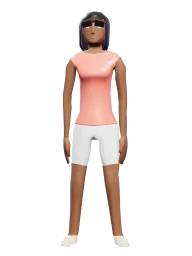
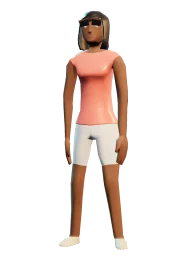
t426: heróis com armadura tática de cinema (placas, mangas, capacetes), nomes/cores sem semelhança com personagens de terceiros, miniaturas com luz cinematográfica

Changed region(s): [[0.3125, 0.0312, 0.6875, 1.0]]

diff --git a/src/heroes.js b/src/heroes.js
@@ -23,36 +23,75 @@ export function attach(model, bone, obj, off, k, rot) {
 const grp = (...m) => { const g = new THREE.Group(); for (const x of m) g.add(x); return g; };
 const mesh = (geo, mat, x = 0, y = 0, z = 0, rx = 0, ry = 0, rz = 0) => { const o = new THREE.Mesh(geo, mat); o.position.set(x, y, z); o.rotation.set(rx, ry, rz); return o; };
 
+// t426: armadura tática de cinema (placas, ombreiras em camadas, braçadeiras, caneleiras, cinto com bolsos) — desenho próprio
+export function limbTube(model, k, bone, next, r0, r1, m, extra = 0, up = 0) {
+  model.updateMatrixWorld(true); const a = model.getObjectByName(bone), b = model.getObjectByName(next); if (!a || !b) return null;
+  const pa = new THREE.Vector3().setFromMatrixPosition(a.matrixWorld), pb = new THREE.Vector3().setFromMatrixPosition(b.matrixWorld);
+  const L = pa.distanceTo(pb) / (k || 1) * (1 + extra) + up; const dir = pb.clone().sub(pa).normalize().applyQuaternion(model.getWorldQuaternion(new THREE.Quaternion()).invert());
+  const g = new THREE.CylinderGeometry(r0, r1, L, 12, 1, true); g.translate(0, -L / 2 + up, 0);
+  const o = new THREE.Mesh(g, m); o.quaternion.setFromUnitVectors(new THREE.Vector3(0, -1, 0), dir); return attach(model, bone, o, [0, 0, 0], k);
+}
+export function tacArmor(model, k, o) {
+  // mangas do macacão (cobrem o braço inteiro)
+  const suit = M(o.suit ?? 0x22262c, { metalness: 0.35, roughness: 0.55, side: THREE.DoubleSide });
+  for (const s of ['L', 'R']) { limbTube(model, k, 'UpperArm' + s, 'LowerArm' + s, 0.075, 0.064, suit, 0.1, 0.03); limbTube(model, k, 'LowerArm' + s, 'Palm' + s, 0.064, 0.05, suit, 0.0, 0.03);
+    limbTube(model, k, 'UpperLeg' + s, 'LowerLeg' + s, 0.092, 0.07, suit, 0.1, 0.02); limbTube(model, k, 'LowerLeg' + s, 'Foot' + s, 0.072, 0.062, suit, 0.0, 0.05); }
+  const plate = M(o.plate, { metalness: o.pm ?? 0.75, roughness: o.pr ?? 0.32 }), trim = M(o.trim, { metalness: 0.85, roughness: 0.28 }), dark = M(0x16191e, { metalness: 0.4, roughness: 0.6 }), gl = GLOW(o.glow, 1.8);
+  // peitoral em duas metades com vinco central e núcleo de luz
+  for (const s of [-1, 1]) attach(model, 'Torso', grp(mesh(box(0.15, 0.17, 0.035), plate, 0, 0, 0, -0.12, s * 0.22, 0), mesh(box(0.15, 0.012, 0.04), trim, 0, -0.085, 0.004, -0.12, s * 0.22, 0)), [s * 0.072, 0.17, 0.125], k);
+  if (o.core !== false) attach(model, 'Torso', mesh(new THREE.CylinderGeometry(0.026, 0.026, 0.02, 6), gl, 0, 0, 0, Math.PI / 2), [0, 0.17, 0.155], k);
+  // abdômen segmentado
+  for (let i = 0; i < 3; i++) attach(model, 'Torso', mesh(box(0.16 - i * 0.012, 0.042, 0.03), i % 2 ? dark : plate), [0, 0.04 - i * 0.05, 0.13], k);
+  // gola alta
+  attach(model, 'Torso', mesh(new THREE.CylinderGeometry(0.075, 0.095, 0.06, 12, 1, true), dark), [0, 0.33, 0], k);
+  // ombreiras em camadas
+  for (const s of [1, -1]) { const sh = grp(mesh(new THREE.SphereGeometry(0.105, 12, 8, 0, Math.PI * 2, 0, Math.PI * 0.45), plate), mesh(new THREE.SphereGeometry(0.09, 12, 6, 0, Math.PI * 2, Math.PI * 0.42, Math.PI * 0.1), trim, 0, -0.015, 0), mesh(box(0.012, 0.012, 0.12), gl, s * 0.05, 0.05, 0));
+    attach(model, s > 0 ? 'UpperArmL' : 'UpperArmR', sh, [s * 0.02, 0.035, 0], k); }
+  // braçadeiras e joelheiras/caneleiras
+  for (const s of ['L', 'R']) {
+    attach(model, 'LowerArm' + s, grp(mesh(new THREE.CylinderGeometry(0.055, 0.05, 0.16, 8), plate), mesh(box(0.02, 0.12, 0.012), gl, 0, 0, 0.052)), [0, -0.13, 0], k);
+    attach(model, 'UpperLeg' + s, mesh(box(0.11, 0.17, 0.03), plate, 0, 0, 0, 0.05), [0, -0.2, 0.075], k);
+    attach(model, 'LowerLeg' + s, grp(mesh(box(0.1, 0.24, 0.03), plate), mesh(new THREE.SphereGeometry(0.05, 8, 6), trim, 0, 0.15, 0.0), mesh(box(0.012, 0.16, 0.012), gl, 0, -0.01, 0.018)), [0, -0.15, 0.07], k);
+  }
+  // cinto tático com bolsos
+  attach(model, 'Hips', mesh(new THREE.TorusGeometry(0.168, 0.02, 6, 22), dark, 0, 0, 0, Math.PI / 2), [0, 0.09, 0], k);
+  for (const a of [-0.9, -0.35, 0.35, 0.9]) attach(model, 'Hips', mesh(box(0.06, 0.06, 0.035), dark, 0, 0, 0, 0, a), [Math.sin(a) * 0.17, 0.08, Math.cos(a) * 0.16], k);
+  attach(model, 'Hips', mesh(box(0.07, 0.045, 0.02), trim), [0, 0.09, 0.172], k);
+}
+// capacete tático com viseira (formato próprio)
+function helmet(model, k, shell, visor, open) {
+  const g = grp(mesh(new THREE.SphereGeometry(0.155, 16, 12, 0, Math.PI * 2, 0, open ? Math.PI * 0.5 : Math.PI * 0.62), shell), mesh(box(0.2, open ? 0.02 : 0.035, 0.04), visor, 0, open ? 0.06 : 0.0, open ? 0.13 : 0.125));
+  if (!open) g.add(mesh(box(0.11, 0.06, 0.05), shell, 0, -0.07, 0.12));
+  return attach(model, 'Head', g, [0, 0.11, 0.005], k);
+}
+
 export const HEROES = {
   teia: {
-    id: 'teia', label: 'Teia Neon', name: 'Ágil e escaladora', base: 'ela', height: 1.7, power: 'teia', emoji: '🕸',
-    powerTxt: 'escala paredes e se balança entre os prédios',
-    colors: { Shirt: 0x0fbfb0, Pants: 0x10141c, Shoes: 0x0fbfb0, Hair: 0x10141c, HairBase: 0x10141c, Skin: 0x10141c },
-    fallback: { skin: 0x10141c, shirt: 0x0fbfb0, pants: 0x10141c, hair: 0x10141c, stripe: 0x9cff3a },
+    id: 'teia', label: 'Vértice', name: 'Ágil e escaladora', base: 'ela', height: 1.72, power: 'teia', emoji: '🪝',
+    powerTxt: 'escala paredes e se balança entre os prédios com um gancho de cabo',
+    colors: { Shirt: 0x1d3f45, Pants: 0x15181d, Shoes: 0x22272e, Hair: 0x15181d, HairBase: 0x15181d, Skin: 0x15181d },
+    fallback: { skin: 0x15181d, shirt: 0x1d3f45, pants: 0x15181d, hair: 0x15181d, stripe: 0x4ff7e0 },
     gear(model, k) {
-      const lens = GLOW(0xd8fff8, 1.6), lime = GLOW(0x9cff3a, 1.4);
-      // olhos grandes em gota (formato próprio), faixas em zigue-zague no peito e lançadores de fio nos pulsos
-      const eye = (s) => mesh(box(0.07, 0.018, 0.012), lens, s * 0.045, 0, 0, 0, s * 0.3, s * -0.28);
-      attach(model, 'Head', grp(eye(1), eye(-1)), [0, 0.12, 0.13], k);
-      const zz = grp(mesh(box(0.17, 0.02, 0.01), lime, 0.06, 0, 0, 0, 0, -0.6), mesh(box(0.17, 0.02, 0.01), lime, -0.06, 0, 0, 0, 0, 0.6), mesh(box(0.13, 0.02, 0.01), lime, 0.05, -0.08, 0, 0, 0, -0.6), mesh(box(0.13, 0.02, 0.01), lime, -0.05, -0.08, 0, 0, 0, 0.6));
-      attach(model, 'Torso', zz, [0, 0.12, 0.14], k);
+      helmet(model, k, M(0x1c2127, { metalness: 0.7, roughness: 0.3 }), GLOW(0x4ff7e0, 1.8));
+      tacArmor(model, k, { plate: 0x2a3038, trim: 0x4b5560, glow: 0x4ff7e0 });
+      // lançadores de cabo nos pulsos
       for (const s of ['L', 'R']) attach(model, 'Palm' + s, mesh(new THREE.CylinderGeometry(0.035, 0.035, 0.08, 8), M(0x0b0e14, { metalness: 0.6 })), [0, 0.07, 0], k);
     },
   },
   solar: {
     id: 'solar', label: 'Armadura Solar', name: 'Voa e paira', base: 'ele', height: 1.86, power: 'voo', emoji: '☀',
     powerTxt: 'voa e paira no céu de Solara',
-    colors: { Shirt: 0xe9c25a, Pants: 0xf4f1ea, Socks: 0xe9c25a, Hair: 0xe9c25a, Eyes: 0xe9c25a, Skin: 0xf4f1ea },
-    metal: { Shirt: 0.75, Pants: 0.35, Socks: 0.75, Hair: 0.75, Skin: 0.35, Eyes: 0.75 },
-    fallback: { skin: 0xf4f1ea, shirt: 0xe9c25a, pants: 0xf4f1ea, hair: 0xe9c25a, stripe: 0xffffff },
+    colors: { Shirt: 0x2b2e33, Pants: 0x24272c, Socks: 0x2b2e33, Hair: 0x2b2e33, Eyes: 0x2b2e33, Skin: 0x24272c },
+    metal: { Shirt: 0.7, Pants: 0.55, Socks: 0.7, Hair: 0.7, Skin: 0.55, Eyes: 0.7 },
+    fallback: { skin: 0x24272c, shirt: 0x2b2e33, pants: 0x24272c, hair: 0x2b2e33, stripe: 0xd9b45a },
     gear(model, k) {
-      const gold = M(0xe9c25a, { metalness: 0.8, roughness: 0.3 }), white = M(0xf7f5ef, { metalness: 0.3, roughness: 0.3 }), sun = GLOW(0xfff1b8, 2.4);
-      attach(model, 'Head', grp(mesh(new THREE.SphereGeometry(0.135, 14, 10), gold), mesh(box(0.17, 0.026, 0.03), GLOW(0x9fdcff, 2), 0, 0.01, 0.12)), [0, 0.1, 0.035], k);
+      const sun = GLOW(0xfff1b8, 2.4);
+      helmet(model, k, M(0xc9a24e, { metalness: 0.85, roughness: 0.28 }), GLOW(0x9fdcff, 2));
+      tacArmor(model, k, { plate: 0xc9a24e, trim: 0x2b2e33, glow: 0xffd27a, pm: 0.88, pr: 0.26, core: false });
       // emblema solar: hexágono com raios (desenho próprio)
-      const em = grp(mesh(new THREE.CylinderGeometry(0.05, 0.05, 0.02, 6), sun, 0, 0, 0, Math.PI / 2));
-      for (let i = 0; i < 6; i++) { const a = i / 6 * Math.PI * 2 + Math.PI / 6; em.add(mesh(box(0.012, 0.05, 0.012), sun, Math.cos(a) * 0.085, Math.sin(a) * 0.085, 0, 0, 0, a - Math.PI / 2)); }
-      attach(model, 'Torso', em, [0, 0.2, 0.15], k);
-      for (const s of [1, -1]) attach(model, s > 0 ? 'UpperArmL' : 'UpperArmR', mesh(new THREE.SphereGeometry(0.1, 10, 8, 0, Math.PI * 2, 0, Math.PI / 2), white), [s * 0.02, 0.03, 0], k);
+      const em = grp(mesh(new THREE.CylinderGeometry(0.04, 0.04, 0.02, 6), sun, 0, 0, 0, Math.PI / 2));
+      for (let i = 0; i < 6; i++) { const a = i / 6 * Math.PI * 2 + Math.PI / 6; em.add(mesh(box(0.01, 0.035, 0.01), sun, Math.cos(a) * 0.065, Math.sin(a) * 0.065, 0, 0, 0, a - Math.PI / 2)); }
+      attach(model, 'Torso', em, [0, 0.17, 0.16], k);
       const flame = new THREE.MeshBasicMaterial({ color: 0xffd27a, transparent: true, opacity: 0.85, blending: THREE.AdditiveBlending, depthWrite: false, toneMapped: false });
       const jets = [];
       for (const s of ['L', 'R']) { const j = mesh(new THREE.ConeGeometry(0.07, 0.45, 8), flame, 0, -0.25, 0, Math.PI); j.visible = false; jets.push(j); attach(model, 'Foot' + s, j, [0, -0.05, 0.03], k); }
@@ -61,62 +100,55 @@ export const HEROES = {
     },
   },
   colosso: {
-    id: 'colosso', label: 'Colosso Verde', name: 'Gigante gentil', base: 'ele', height: 2.3, bulk: 1.28, power: 'forca', emoji: '💪',
+    id: 'colosso', label: 'Colosso', name: 'Gigante gentil', base: 'ele', height: 2.3, bulk: 1.28, power: 'forca', emoji: '💪',
     powerTxt: 'super pulo e levanta carros (com cuidado, sem estragar nada)',
-    colors: { Shirt: 0x5aa83c, Pants: 0x34465c, Socks: 0x5aa83c, Hair: 0x14110e, Eyes: 0x1a1a1a, Skin: 0x5aa83c },
-    fallback: { skin: 0x5aa83c, shirt: 0x5aa83c, pants: 0x34465c, hair: 0x14110e, stripe: 0x34465c },
+    colors: { Shirt: 0x2c3138, Pants: 0x23272d, Socks: 0x2c3138, Hair: 0x14110e, Eyes: 0x1a1a1a, Skin: 0x8d5a3b },
+    fallback: { skin: 0x8d5a3b, shirt: 0x2c3138, pants: 0x23272d, hair: 0x14110e, stripe: 0xb8793a },
     gear(model, k) {
-      const bronze = M(0xb8793a, { metalness: 0.6, roughness: 0.35 });
-      for (const s of ['L', 'R']) attach(model, 'LowerArm' + s, mesh(new THREE.CylinderGeometry(0.075, 0.08, 0.13, 10), bronze), [0, -0.17, 0], k);
-      attach(model, 'Hips', mesh(new THREE.TorusGeometry(0.17, 0.025, 6, 18), M(0x2a2a2a), 0, 0, 0, Math.PI / 2), [0, 0.08, 0], k);
+      tacArmor(model, k, { plate: 0x7a5530, trim: 0x2c3138, glow: 0xffb347, pm: 0.7, pr: 0.38, suit: 0x2c3138 });
+      for (const s of ['L', 'R']) attach(model, 'LowerArm' + s, mesh(new THREE.CylinderGeometry(0.075, 0.08, 0.13, 10), M(0xb8793a, { metalness: 0.6, roughness: 0.35 })), [0, -0.17, 0], k);
     },
   },
   sentinela: {
     id: 'sentinela', label: 'Sentinela', name: 'Escudo e impulso', base: 'ele', height: 1.82, power: 'escudo', emoji: '🛡',
     powerTxt: 'arrancada com escudo que quica nas paredes',
-    colors: { Shirt: 0x2e6f6b, Pants: 0x2a2e35, Socks: 0x2a2e35, Hair: 0x2a1c12, Eyes: 0x1a1a1a, Skin: 0xb07a52 },
-    fallback: { skin: 0xb07a52, shirt: 0x2e6f6b, pants: 0x2a2e35, hair: 0x2a1c12, stripe: 0xf08a24 },
+    colors: { Shirt: 0x1e3a44, Pants: 0x22262c, Socks: 0x22262c, Hair: 0x2a1c12, Eyes: 0x1a1a1a, Skin: 0xb07a52 },
+    fallback: { skin: 0xb07a52, shirt: 0x1e3a44, pants: 0x22262c, hair: 0x2a1c12, stripe: 0xd9b45a },
     gear(model, k) {
-      const orange = M(0xf08a24, { metalness: 0.4, roughness: 0.4 }), steel = M(0x3b4048, { metalness: 0.7, roughness: 0.35 }), teal = GLOW(0x4ff7e0, 1.2), strap = M(0x5a3b22);
-      // capacete aberto com crista
-      attach(model, 'Head', grp(mesh(new THREE.SphereGeometry(0.16, 14, 10, 0, Math.PI * 2, 0, Math.PI * 0.5), orange), mesh(box(0.03, 0.06, 0.26), orange, 0, 0.15, -0.02)), [0, 0.13, -0.005], k);
-      attach(model, 'Torso', grp(mesh(box(0.05, 0.5, 0.02), strap, 0, 0, 0, 0, 0, 0.55), mesh(box(0.05, 0.5, 0.02), strap, 0, 0, 0, 0, 0, -0.55)), [0, 0.12, 0.145], k);
-      // escudo redondo: anéis laranja/aço e um hexágono turquesa no centro (desenho próprio)
-      const sh = grp(mesh(new THREE.CylinderGeometry(0.3, 0.3, 0.03, 28), orange), mesh(new THREE.CylinderGeometry(0.23, 0.23, 0.036, 28), steel), mesh(new THREE.CylinderGeometry(0.15, 0.15, 0.04, 28), orange), mesh(new THREE.CylinderGeometry(0.08, 0.08, 0.045, 6), teal));
-      sh.children.forEach(c => c.rotation.z = Math.PI / 2);
+      const steel = M(0x2f353d, { metalness: 0.75, roughness: 0.32 }), gold = M(0xc9a24e, { metalness: 0.85, roughness: 0.3 }), teal = GLOW(0x4ff7e0, 1.4);
+      helmet(model, k, steel, teal, true);
+      tacArmor(model, k, { plate: 0x2f353d, trim: 0xc9a24e, glow: 0x4ff7e0, suit: 0x1e3a44 });
+      // escudo hexagonal de aço com aro dourado e anel turquesa (desenho próprio)
+      const sh = grp(mesh(new THREE.CylinderGeometry(0.3, 0.3, 0.03, 6), gold), mesh(new THREE.CylinderGeometry(0.27, 0.27, 0.036, 6), steel), mesh(new THREE.TorusGeometry(0.15, 0.012, 6, 6), teal, 0, 0.02, 0, Math.PI / 2), mesh(new THREE.CylinderGeometry(0.05, 0.05, 0.045, 6), teal));
+      sh.children.forEach(c => { if (c.geometry.type === 'TorusGeometry') { c.rotation.set(0, Math.PI / 2, 0); c.position.set(0.02, 0, 0); } else c.rotation.z = Math.PI / 2; });
       model.userData.shield = attach(model, 'LowerArmL', sh, [0.09, -0.12, 0.02], k);
     },
   },
   ferreo: {
-    id: 'ferreo', label: 'Lorde Férreo', name: 'Vilão que levita', base: 'ele', height: 1.88, power: 'levitar', emoji: '🧙',
-    powerTxt: 'levita e flutua devagar (vilão de pose, mas gente boa)',
-    colors: { Shirt: 0x5b6650, Pants: 0x3d4145, Socks: 0x3d4145, Hair: 0x5b6650, Eyes: 0x2c3030, Skin: 0x9ea6ad },
-    metal: { Skin: 0.8 },
-    fallback: { skin: 0x9ea6ad, shirt: 0x5b6650, pants: 0x3d4145, hair: 0x5b6650, stripe: 0x9ea6ad },
+    id: 'ferreo', label: 'Férreo', name: 'Levita com estilo', base: 'ele', height: 1.88, power: 'levitar', emoji: '🌀',
+    powerTxt: 'levita e flutua devagar (pose séria, mas gente boa)',
+    colors: { Shirt: 0x30343a, Pants: 0x26292e, Socks: 0x26292e, Hair: 0x2c2c2c, Eyes: 0x1a1a1a, Skin: 0xb98a66 },
+    fallback: { skin: 0xb98a66, shirt: 0x30343a, pants: 0x26292e, hair: 0x2c2c2c, stripe: 0x9ea6ad },
     gear(model, k) {
-      const cloth = M(0x45503f, { roughness: 0.85, side: THREE.DoubleSide }), steel = M(0x9ea6ad, { metalness: 0.85, roughness: 0.3 });
-      attach(model, 'Head', mesh(new THREE.SphereGeometry(0.175, 14, 10, Math.PI * 0.62, Math.PI * 1.76, 0, Math.PI * 0.68), cloth), [0, 0.11, -0.01], k);
-      attach(model, 'Head', mesh(box(0.15, 0.02, 0.02), GLOW(0x7dff9a, 1.8), 0, 0, 0), [0, 0.12, 0.14], k);
+      const cloth = M(0x24272b, { roughness: 0.85, side: THREE.DoubleSide });
+      helmet(model, k, M(0x8f979f, { metalness: 0.85, roughness: 0.3 }), GLOW(0xffc46b, 1.8));
+      tacArmor(model, k, { plate: 0x8f979f, trim: 0x30343a, glow: 0xffc46b, pm: 0.85 });
       const capeGeo = new THREE.PlaneGeometry(0.52, 1.15, 4, 6); capeGeo.translate(0, -0.6, 0);
       const pos = capeGeo.attributes.position; for (let i = 0; i < pos.count; i++) { const x = pos.getX(i), y = pos.getY(i); pos.setZ(i, x * x * 2.2 + y * 0.1); pos.setX(i, x * (1 - y * 0.3)); } capeGeo.computeVertexNormals();
-      const capeM = mesh(capeGeo, cloth); attach(model, 'Torso', grp(capeM), [0, 0.3, -0.15], k); model.userData.cape = capeM;
-      for (const s of [1, -1]) attach(model, s > 0 ? 'UpperArmL' : 'UpperArmR', mesh(new THREE.SphereGeometry(0.1, 10, 8, 0, Math.PI * 2, 0, Math.PI / 2), steel), [s * 0.02, 0.03, 0], k);
-      attach(model, 'Hips', mesh(new THREE.TorusGeometry(0.16, 0.02, 6, 18), steel, 0, 0, 0, Math.PI / 2), [0, 0.1, 0], k);
+      const capeM = mesh(capeGeo, cloth); attach(model, 'Torso', grp(capeM), [0, 0.3, -0.17], k); model.userData.cape = capeM;
     },
   },
   tita: {
-    id: 'tita', label: 'Titã Violeta', name: 'Pisão de onda', base: 'ele', height: 2.5, bulk: 1.2, power: 'impacto', emoji: '🟣',
+    id: 'tita', label: 'Titã', name: 'Pisão de onda', base: 'ele', height: 2.5, bulk: 1.2, power: 'impacto', emoji: '🌊',
     powerTxt: 'pisão no chão que solta uma onda de luz (só visual)',
-    colors: { Shirt: 0x3b3644, Pants: 0x2a2633, Socks: 0x3b3644, Hair: 0x7b52b8, Eyes: 0x1a1a1a, Skin: 0x7b52b8 },
-    fallback: { skin: 0x7b52b8, shirt: 0x3b3644, pants: 0x2a2633, hair: 0x7b52b8, stripe: 0xd9a441 },
+    colors: { Shirt: 0x2a2d33, Pants: 0x202328, Socks: 0x2a2d33, Hair: 0x1a1410, Eyes: 0x1a1a1a, Skin: 0x6b4a35 },
+    fallback: { skin: 0x6b4a35, shirt: 0x2a2d33, pants: 0x202328, hair: 0x1a1410, stripe: 0xd9a441 },
     gear(model, k) {
-      const gold = M(0xd9a441, { metalness: 0.85, roughness: 0.3 });
-      for (const s of [1, -1]) attach(model, s > 0 ? 'UpperArmL' : 'UpperArmR', mesh(new THREE.SphereGeometry(0.11, 10, 8, 0, Math.PI * 2, 0, Math.PI / 2), gold), [s * 0.02, 0.03, 0], k);
-      attach(model, 'Torso', mesh(box(0.34, 0.06, 0.22), gold), [0, 0.0, 0.02], k);
-      // manopla dourada de desenho próprio: placas facetadas + três cristais em triângulo
-      const g = grp(mesh(new THREE.CylinderGeometry(0.07, 0.06, 0.16, 6), gold), mesh(new THREE.DodecahedronGeometry(0.075, 0), gold, 0, -0.12, 0));
-      [[0x4ff7e0, 0, -0.1], [0xff5fd2, -0.03, -0.15], [0xffc44d, 0.03, -0.15]].forEach(([c, x, y]) => g.add(mesh(new THREE.OctahedronGeometry(0.022, 0), GLOW(c, 2.5), x, y, 0.07)));
-      model.userData.gauntlet = attach(model, 'PalmR', g, [0, 0.05, 0], k);
+      const gold = M(0xb48a3c, { metalness: 0.85, roughness: 0.3 });
+      tacArmor(model, k, { plate: 0x3a3f47, trim: 0xb48a3c, glow: 0x4ff7e0, suit: 0x2a2d33 });
+      // braçadeira de impacto (desenho próprio): placas facetadas e um núcleo turquesa
+      const g = grp(mesh(new THREE.CylinderGeometry(0.07, 0.06, 0.16, 6), gold), mesh(new THREE.CylinderGeometry(0.03, 0.03, 0.02, 6), GLOW(0x4ff7e0, 2.2), 0, -0.02, 0.065, Math.PI / 2));
+      model.userData.gauntlet = attach(model, 'LowerArmR', g, [0, -0.1, 0], k);
     },
   },
 };
@@ -129,7 +161,7 @@ export function heroMaterials(H, mats) {
 }
 
 // ---- "traje nano-metal": roupa tecnológica metálica escura com linhas de luz (estilo próprio de Solara) para todos os personagens jogáveis
-const SUIT_CLOTH = ['Shirt', 'Pants', 'Socks', 'Shoes']; const SUIT_SKIN = new Set(['teia', 'solar', 'ferreo']);
+const SUIT_CLOTH = ['Shirt', 'Pants', 'Socks', 'Shoes']; const SUIT_SKIN = new Set(['teia', 'solar']);
 export const SUIT_GLOW = { ela: 0xff4f8b, ele: 0x19e3ff, teia: 0x9cff3a, solar: 0xffd23f, colosso: 0x7dff6a, sentinela: 0x4fb3ff, ferreo: 0xff6a2a, tita: 0xb36bff };
 export function nanoSuit(A, model, mats, k) {
   const glow = SUIT_GLOW[A.id] ?? 0x29f0ff; const hsl = {};

diff --git a/test/thumbs.js b/test/thumbs.js
@@ -8,7 +8,7 @@ const OUT = process.env.OUT || '/workspace/miami-mundo-aberto/assets/avatars/'; 
   await page.goto('http://localhost:' + PORT + '/?q=low', { waitUntil: 'load' }); await page.waitForFunction('window.MBD_READY === true', { timeout: 120000 });
   const res = await page.evaluate(async () => {
     const THREE = await import('three'); const AV = await import('/src/avatar.js');
-    const W = 384, H = 512; const r = new THREE.WebGLRenderer({ alpha: true, antialias: true, preserveDrawingBuffer: true }); r.setSize(W, H); r.setClearColor(0x000000, 0); r.outputColorSpace = THREE.SRGBColorSpace; r.toneMapping = THREE.ACESFilmicToneMapping; r.toneMappingExposure = 1.15;
+    const W = 384, H = 512; const r = new THREE.WebGLRenderer({ alpha: true, antialias: true, preserveDrawingBuffer: true }); r.setSize(W, H); r.setClearColor(0x000000, 0); r.outputColorSpace = THREE.SRGBColorSpace; r.toneMapping = THREE.ACESFilmicToneMapping; r.toneMappingExposure = 1.05;
     // ambiente simples (céu claro em cima, chão escuro, faixas de luz) para o metal refletir
     const ec = document.createElement('canvas'); ec.width = 256; ec.height = 128; const g = ec.getContext('2d'); const gr = g.createLinearGradient(0, 0, 0, 128); gr.addColorStop(0, '#dfe9ff'); gr.addColorStop(0.48, '#9fb6d8'); gr.addColorStop(0.52, '#3a3f4a'); gr.addColorStop(1, '#16181d'); g.fillStyle = gr; g.fillRect(0, 0, 256, 128);
     g.fillStyle = '#ffffff'; g.fillRect(40, 20, 30, 40); g.fillRect(170, 26, 24, 34); g.fillStyle = '#ff9ad6'; g.fillRect(110, 40, 16, 20);
@@ -17,11 +17,12 @@ const OUT = process.env.OUT || '/workspace/miami-mundo-aberto/assets/avatars/'; 
     const out = {};
     for (const id of AV.AVATAR_IDS) {
       const scene = new THREE.Scene(); scene.environment = envRT.texture;
-      scene.add(new THREE.HemisphereLight(0xffffff, 0x445066, 1.4)); const key = new THREE.DirectionalLight(0xffffff, 2.6); key.position.set(2, 4, 5); scene.add(key); const rim = new THREE.DirectionalLight(0x9fdcff, 2.2); rim.position.set(-3, 3, -4); scene.add(rim);
+      // t426: luz de cinema: chave quente lateral, recorte azul-petróleo forte por trás, preenchimento baixo
+      scene.add(new THREE.HemisphereLight(0x9fb4c8, 0x1a1c20, 0.55)); const key = new THREE.DirectionalLight(0xffd9a8, 3.4); key.position.set(3.2, 3.6, 3.4); scene.add(key); const rim = new THREE.DirectionalLight(0x4ff7e0, 3.6); rim.position.set(-3.5, 2.6, -3.2); scene.add(rim); const rim2 = new THREE.DirectionalLight(0xffc46b, 1.6); rim2.position.set(3.5, 1.5, -3); scene.add(rim2);
       const W8 = await import('/src/wardrobe.js'); const m = await AV.makeModel(id, null, null, false, W8.isHero(id) ? { mode: 'suit', suit: 'classico' } : { mode: 'civil', eq: {} }); scene.add(m.model); const idle = m.acts.Idle; if (idle) { idle.play(); m.mixer.update(0.6); }
       m.model.updateMatrixWorld(true); const box = new THREE.Box3().setFromObject(m.model); const size = box.getSize(new THREE.Vector3()), c = box.getCenter(new THREE.Vector3());
       const cam = new THREE.PerspectiveCamera(24, W / H, 0.1, 100); const hgt = size.y * 1.1; const dist = (hgt / 2) / Math.tan(THREE.MathUtils.degToRad(12));
-      cam.position.set(c.x + dist * 0.12, c.y + size.y * 0.04, c.z + dist); cam.lookAt(c.x, c.y, c.z);
+      cam.position.set(c.x + dist * 0.3, c.y - size.y * 0.06, c.z + dist * 0.95); cam.lookAt(c.x, c.y, c.z);
       r.render(scene, cam);
       const small = document.createElement('canvas'); small.width = 192; small.height = 256; const sg = small.getContext('2d'); sg.imageSmoothingQuality = 'high'; sg.drawImage(r.domElement, 0, 0, 192, 256);
       out[id] = small.toDataURL('image/webp', 0.86);

diff --git a/src/powers.js b/src/powers.js
@@ -15,7 +15,7 @@ export function roofAt(x, z, y) {
 }
 // altura do prédio que contém (x,z), ignorando a altura de quem pergunta
 function boxTop(x, z) { let f = -1e9; for (const b of BOXES) { if (b.boatOnly || b.h > 400) continue; if (x > b.x0 && x < b.x1 && z > b.z0 && z < b.z1 && b.h > f) f = b.h; } return f; }
-// topo do prédio mais próximo à frente (para o fio da Teia Neon)
+// topo do prédio mais próximo à frente (para o cabo da Vértice)
 function anchorAhead(x, z, fx, fz) {
   let best = null, bs = -1e9;
   for (const b of BOXES) {
@@ -104,7 +104,7 @@ export class Powers {
       return true;
     }
     this.airPose = null;
-    // escalada da Teia Neon: andar contra a parede sobe
+    // escalada da Vértice: andar contra a parede sobe
     if (k === 'teia') {
       if (c.wall && c.dl > 0.05 && (c.dx * c.wall.x + c.dz * c.wall.z) < -0.4) { this.climb = true; this.wallN = c.wall; }
       else if (this.climb && !(c.dl > 0.05)) this.climb = false;
@@ -148,7 +148,7 @@ export class Powers {
       v.sync(0);
     }
     for (const v of G.vehicles) if (v.hop > 0) { v.hopT = (v.hopT || 0) + dt * 9; v.hop = Math.max(0, v.hop - dt * 0.6); v.root.position.y = v.y + (v.hop > 0 ? Math.abs(Math.sin(v.hopT)) * v.hop : 0); if (v.hop <= 0) v.hopT = 0; }
-    // capa do Lorde Férreo balança com o movimento
+    // capa do Férreo balança com o movimento
     const R = G.hero.rig; if (R && R.model.userData.cape) { const sp = Math.hypot(p.vx || 0, p.vz || 0); R.model.userData.cape.rotation.x = lerp(R.model.userData.cape.rotation.x, -Math.min(0.9, sp * 0.06) - (this.lev ? 0.25 : 0) + Math.sin(t * 3) * 0.04, Math.min(1, dt * 4)); }
   }
 }

diff --git a/src/signature.js b/src/signature.js
@@ -8,7 +8,7 @@ import * as THREE from 'three';
 export const SIGNATURE = {
   ela: { type: 'sport', name: 'Flecha Rosa', tune: { paint: 0xff4f8b, accent: 0xffffff, glow: 0xff2bd6, rim: 0xffffff, text: 'LUNA', style: 0, spoiler: 1, kit: true } },
   ele: { type: 'moto', name: 'Raio Ciano', tune: { paint: 0x19c3e6, accent: 0x111111, glow: 0x29f0ff, rim: 0x111111, text: 'DAVI', style: 1 } },
-  teia: { type: 'moto', name: 'Moto Teia Neon', tune: { paint: 0x0f5f5a, accent: 0x9cff3a, glow: 0x9cff3a, rim: 0x111111, text: 'TEIA NEON', style: 2 } },
+  teia: { type: 'moto', name: 'Moto Vértice', tune: { paint: 0x0f5f5a, accent: 0x9cff3a, glow: 0x9cff3a, rim: 0x111111, text: 'VÉRTICE', style: 2 } },
   solar: { type: 'rc_hyper', name: 'Hiper Solar', tune: { paint: 0xffc61a, accent: 0xffffff, glow: 0xff9a3c, rim: 0xffffff, text: 'SOLAR', style: 1, kit: true, spoiler: 0, num: 1 } },
   colosso: { type: 'pickup', name: 'Caminhonete Colosso', tune: { paint: 0x2f9e44, accent: 0x1c1c1e, glow: 0x7dff6a, rim: 0x1a1a1a, text: 'COLOSSO', style: 0, spoiler: 0, kit: true } },
   sentinela: { type: 'rc_muscle', name: 'Muscle Sentinela', tune: { paint: 0x1b2a4a, accent: 0xc8ccd0, glow: 0x4fb3ff, rim: 0xc8ccd0, text: 'SENTINELA', style: 0, kit: true, spoiler: 0, num: 5 } },

diff --git a/src/wardrobe.js b/src/wardrobe.js
@@ -229,7 +229,7 @@ export function applyLook(A, model, mats, k, look) {
 }
 
 // trajes de herói: liga metálica + linhas de luz + equipamento do poder
-const SUIT_CLOTH = ['Shirt', 'Pants', 'Socks', 'Shoes']; const SKIN_SUIT = new Set(['teia', 'solar', 'ferreo']);
+const SUIT_CLOTH = ['Shirt', 'Pants', 'Socks', 'Shoes']; const SKIN_SUIT = new Set(['teia', 'solar']);
 function applySuit(A, model, mats, by, k, S) {
   if (S.id === 'classico') { if (A.hero) { heroMaterials(A, mats); try { A.gear(model, k); } catch (e) { } } return; }
   const L = ALLOYS[S.alloy] || ALLOYS.nano; const glow = S.glow;
